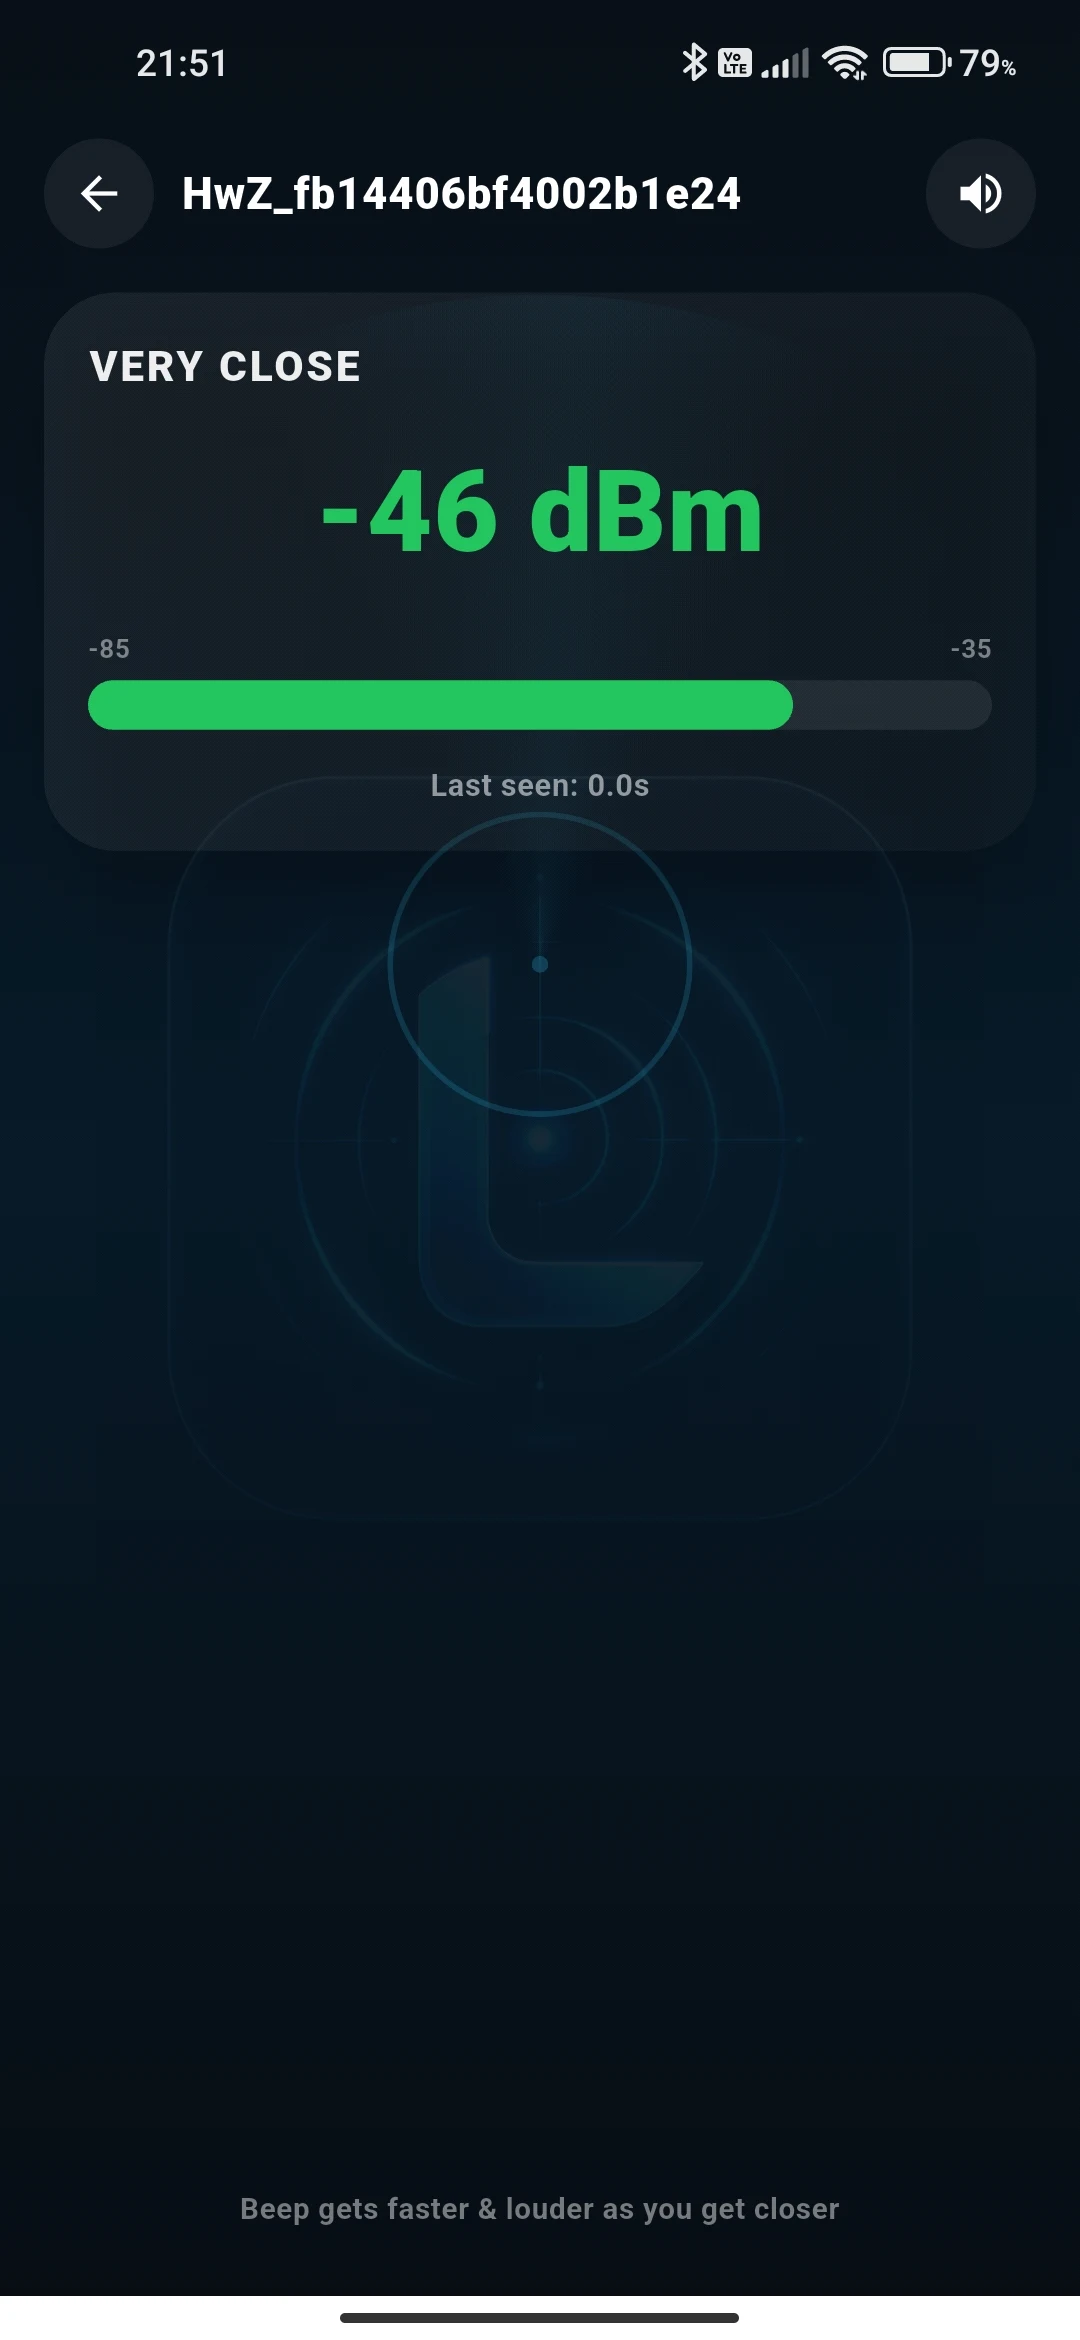
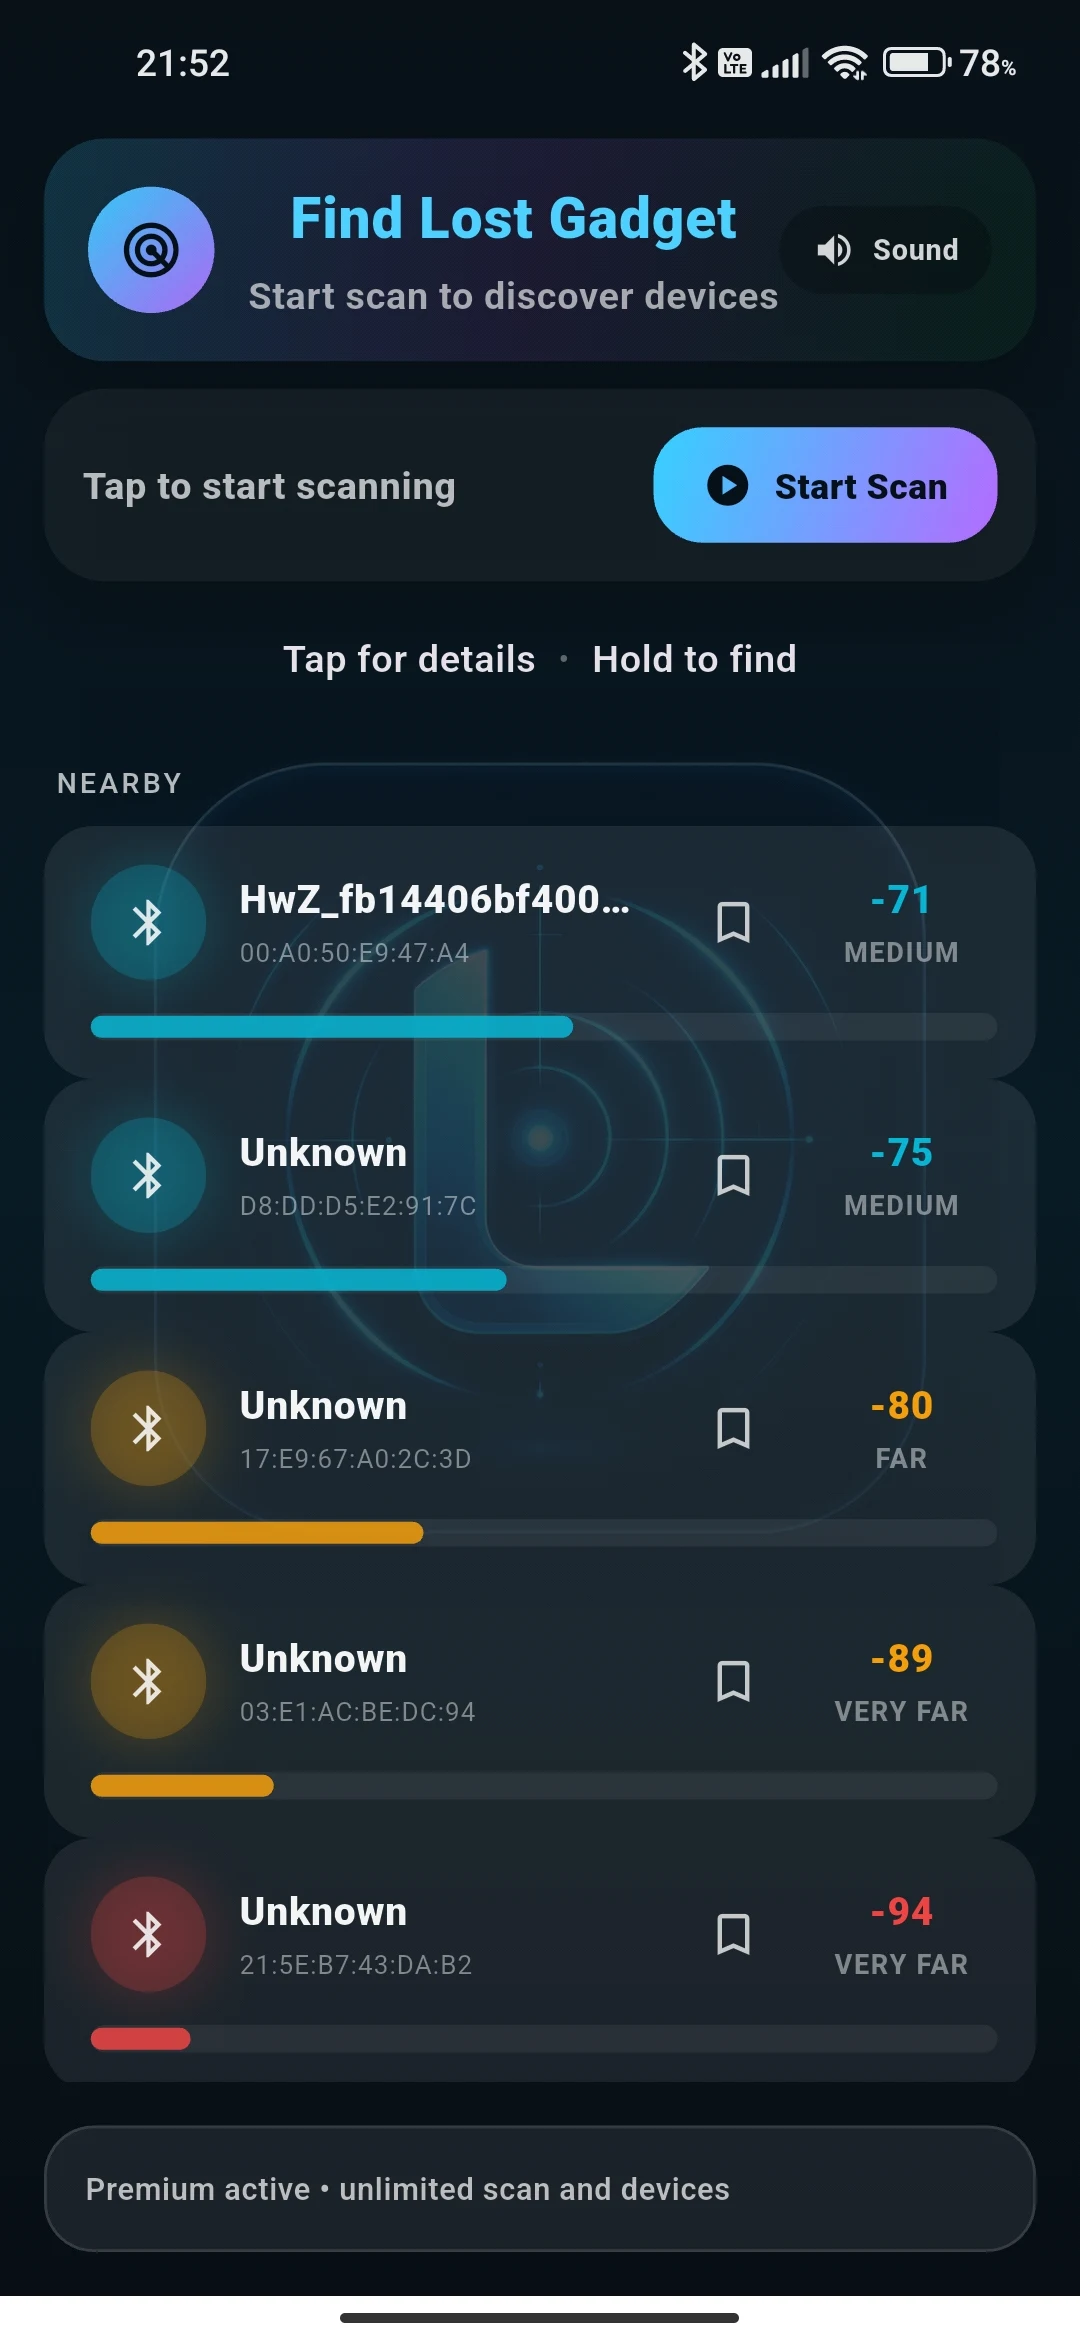
find mode da dairesel gauge e geçmeden son sürüm version: 1.0.0+17

diff --git a/lib/pages/home_page.dart b/lib/pages/home_page.dart
@@ -80,7 +80,8 @@ double _calMaxRssi = -45;   // kalibre edilmiş en güçlü sinyal
 
   final Set<String> _seenThisSession = <String>{};
 	String _appVersion = '';
-
+	final Set<String> _freshDevices = <String>{};
+	
 @override
   void initState() {
     super.initState();
@@ -137,10 +138,22 @@ unawaited(_restorePurchases());
         final id = r.device.remoteId.str;
 
 
-        _seenThisSession.add(id);
+				if (!_seenThisSession.contains(id)) {
+  _seenThisSession.add(id);
+
+  _freshDevices.add(id);
+
+  Future.delayed(const Duration(milliseconds: 1400), () {
+    if (!mounted) return;
+
+    setState(() {
+      _freshDevices.remove(id);
+    });
+  });
+}
         _latest[id] = r;
         _lastSeenMs[id] = now;
-		if (_isPremium) {
+		if (_hasFullAccess) {
   _watchdog.markSeen();
 }
 
@@ -241,7 +254,7 @@ Future<void> _initTrial() async {
     await prefs.setInt(key, start);
   }
 
-  const trialDurationMs = 7 * 24 * 60 * 60 * 1000;//15 * 24 * 60 * 60 * 1000; // 15 gün
+  const trialDurationMs = 7 * 24 * 60 * 60 * 1000;//15 * 24 * 60 * 60 * 1000; // 7 gün
 
   final active = (now - start) < trialDurationMs;
 	final remainingMs = trialDurationMs - (now - start);
@@ -488,7 +501,7 @@ void _toggleExpanded(String id) {
 Widget _buildDeviceCard(String id, ScanResult? r, int now) {
   final saved = _saved[id];
   final isSaved = saved != null;
-
+	final isFresh = _freshDevices.contains(id);
   final seenThisSession = _seenThisSession.contains(id);
 
   final hasEverBeenSeen = _lastSeenMs.containsKey(id);
@@ -548,6 +561,7 @@ final typeIcon = getDeviceTypeIcon(type);
     title: title,
     id: id,
 		leadingIcon: typeIcon,
+		isFresh: isFresh,
     accent: accent,
     stale: stale,
     rssi: smoothRssi,
@@ -997,8 +1011,7 @@ final limitedNearbyIds = _hasFullAccess
 											borderRadius: BorderRadius.circular(18),
 											border: Border.all(
 												color: Colors.white.withValues(alpha: 0.12),
-											),
-											
+											),											
 										),
 										child: Row(
 											children: [

diff --git a/lib/widgets/custom_components.dart b/lib/widgets/custom_components.dart
@@ -281,6 +281,7 @@ class DeviceCardPlayful extends StatelessWidget {
   final Widget? details;
   final bool isSaved;
   final VoidCallback onToggleSaved;
+	final bool isFresh;
   
   const DeviceCardPlayful({
     required this.title,
@@ -297,7 +298,7 @@ class DeviceCardPlayful extends StatelessWidget {
     required this.details,
 	required this.isSaved,
 	required this.onToggleSaved,
-	
+	required this.isFresh,
   });
 
   @override
@@ -323,7 +324,17 @@ return _PressableScale(
       width: 3,
       color: isSaved ? const Color(0xFFFFD166) : Colors.transparent,
     ),
+		
   ),
+	boxShadow: isFresh
+      ? [
+          BoxShadow(
+            color: accent.withOpacity(0.30),
+            blurRadius: 18,
+            spreadRadius: 1,
+          ),
+        ]
+      : [],
 ),
         child: Column(
           children: [
